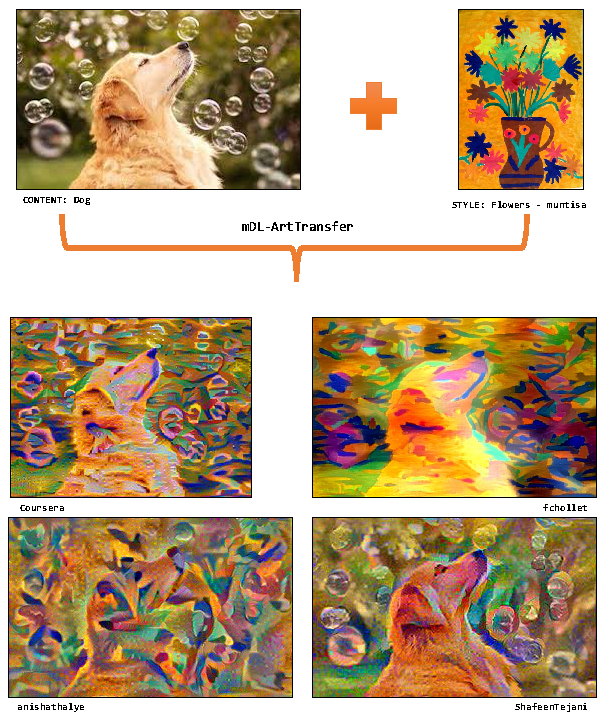
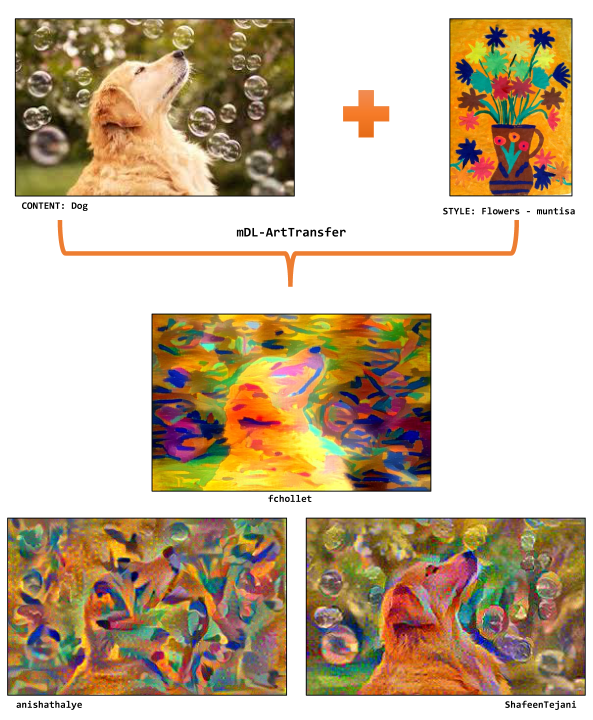
Removing Coursera scripts

diff --git a/README.md b/README.md
@@ -2,20 +2,17 @@
 Deep Learning Art Transfer using Multiple AIs
 ---------------------------------------------
 
-After the "Convolutional Neural Networks" course at Coursera (Deeplearning.ai specialization) I compared the script from Week4: Face recognition and Neural style transfer, practice Neural Style Transfer with other three algorithms for the same task. Therefore, this git is a benchmark of AI Art Transfer results usinng default parameters using four sources:
+This git is a mix of adapted script:
 
-1) Coursera     : https://www.coursera.org/learn/convolutional-neural-networks
-2) fchollet     : https://github.com/keras-team/keras/blob/master/examples/neural_style_transfer.py
-3) anishathalye : https://github.com/anishathalye/neural-style
-4) ShafeenTejani: https://github.com/ShafeenTejani/style-transfer
-
-NOTE: Due to the agreement to not use the practice code in any public repository, the Coursera scipts will have only my modifications. For using the entire code from Coursera you should graduate the course.
+1) fchollet     : https://github.com/keras-team/keras/blob/master/examples/neural_style_transfer.py
+2) anishathalye : https://github.com/anishathalye/neural-style
+3) ShafeenTejani: https://github.com/ShafeenTejani/style-transfer
 
 ## Running
 
 Using the default parameters ( --content_folder='contents', --style_folder='styles', --output_folder='outputs', --iterations=200), mDL-ArtTransfer will get as inputs all the files from contents and styles folders and it will make all the pairs content-style to produce a combined image in the outputs folder, for each algorithm. 
 
-GENERATED images (outputs) = CONTENT images x STYLE images x 4 algorithms 
+GENERATED images (outputs) = CONTENT images x STYLE images x 3 algorithms 
 
 `python mDL-ArtTransfer.py`
 
@@ -31,28 +28,9 @@ In both cases, the script will used all the files in content and style folders. 
 
 The other parameters of the algorithms have default values. You can modify any of them inside the script.
 
-Only 200 interations have been used to train each algorithm with the other parameters with default values. If you didn't graduated the course, you should disable the first algorithm:
+Only 200 interations have been used to train each algorithm with the other parameters with default values.
 
-`# (1) Run Coursera's AI (https://www.deeplearning.ai/)`
-
-`......`
-
-`##os.system(sCmd)`
-
-`##print("... Execution time for (1): %s seconds" % (time.time() - time_AI1))`
-
-## Benchmark
-
-Coursera's Art Transfer
------------------------
-
-* Implemented with Tensorflow
-* Adam optimization
-* Content layer = 'conv4_2'
-* Style layers  = 'conv1_1', 'conv2_1', 'conv3_1', 'conv4_1', 'conv5_1' (equal weights = 0.2 = 1/5)
-* Weight of content loss = 10, weight of style loss = 40 (default values)
-* Input redimention: added because of the limitations of using only 300 by 400 px as inputs; for other dimentions the initial code will stop.
-* PNG transparent backgound: the current code can not process the extra dimension.
+## AI comparison
 
 fchollet's Art Transfer
 -----------------------
@@ -91,7 +69,7 @@ The generated images show different results due to several factors: optimization
 Generated images
 ----------------
 
-AI Art Transfer: 10 Content images + 15 Style images & 4 AI algorithms ==> 600 Generated images
+AI Art Transfer: 10 Content images + 15 Style images & 3 AI algorithms ==> 450 Generated images
 
 I used 15 images as style images (S): the one used in other repository, my own paintings (10-years old), Romanian art and money and my ORCID QR code.
 
@@ -101,7 +79,7 @@ As content, I included 10 content (C) pictures from the other repositories (Anis
 
 ![Content Images](images/mDL-ArtTransfer_contents.png)
 
-Let's see some generated images! First example is about "Dog" containt and "Flower-muntisa" style. The 4 generated images correspondes to the 4 AI scripts. I think that Coursera script is maintaining details from the containt images more than the fchollet generated image (200 iterations only). Opposite, fchollet's AI is able to include a more abstract style.
+Let's see some generated images! First example is about "Dog" containt and "Flower-muntisa" style. The 3 generated images correspondes to the 3 AI scripts. I think that fchollet's AI is able to include a more abstract style.
 
 ![Output Dog Muntisa Flowers](images/mDL-ArtTransfer_Dog_Flowers-muntisa.png)
 
@@ -109,7 +87,7 @@ For other mixture of content and style images such as Dome with Starry Night by 
 
 ![Output Dome Starry Night Van Gogh](images/mDL-ArtTransfer_dome-Van-Gogh.png)
 
-An extreme example of art transfer is using a QR code as style. The Stat Center MIT content shows that Coursera's and fchollet's AIs are able to maintain relativelly accurate the shape of the building. Opposite, the other 2 AIs are loosing the containt.
+An extreme example of art transfer is using a QR code as style. The Stat Center MIT content shows that fchollet's AI is able to maintain relativelly accurate the shape of the building. Opposite, the other 2 AIs are loosing the content.
 
 ![Output Stata center MIT muntisa orcid qrcode](images/mDL-ArtTransfer_qr_code.png)
 
